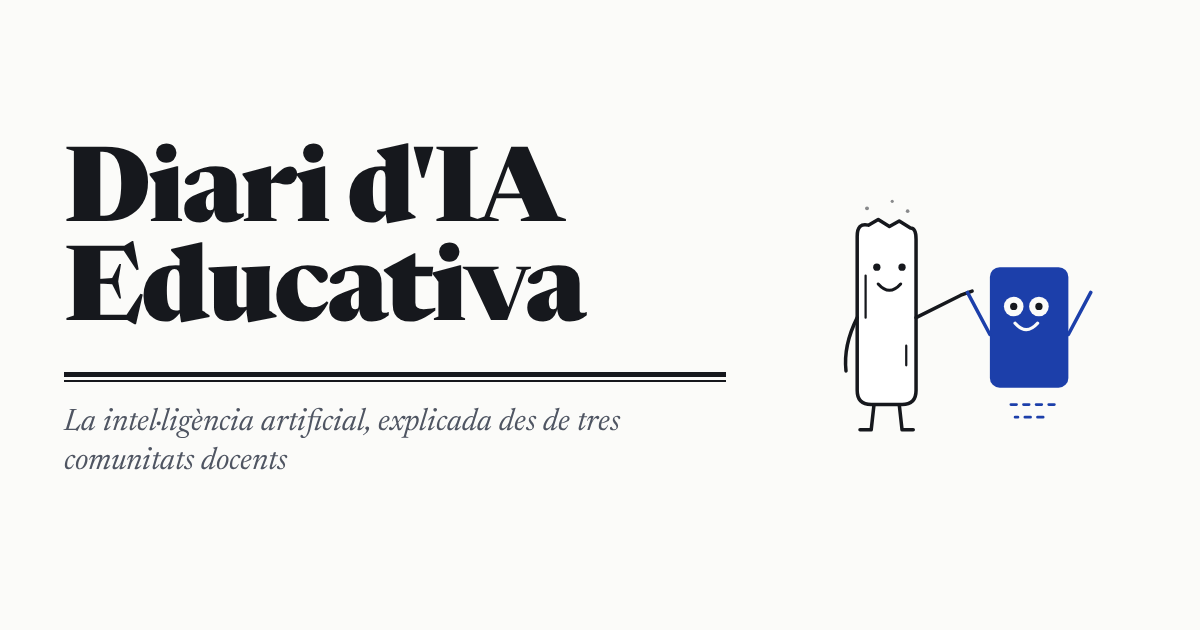
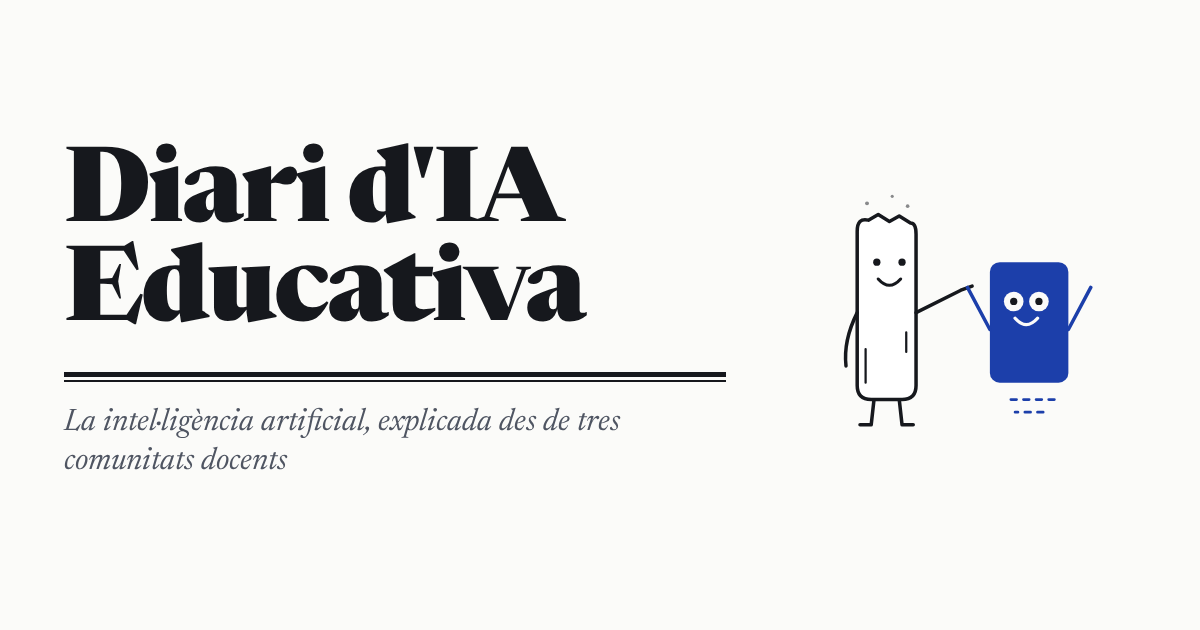
Imagen genérica de vista previa (og-es, og-ca): las vetas de Tiza, en el cuerpo y lejos de la cara, como en la viñeta desde el 07-11-2026

diff --git a/og/og-ca.html b/og/og-ca.html
@@ -5,4 +5,4 @@ h1{font-family:Newsreader;font-weight:800;font-size:104px;line-height:.95;letter
 p{font-family:Newsreader;font-style:italic;font-size:31px;color:#4f5562;margin:22px 0 0;line-height:1.25}
 .filete{height:10px;border-top:5px solid #16181d;border-bottom:2px solid #16181d;margin:26px 0 0;width:100%}
 .vineta svg{width:380px}</style></head>
-<body><div class="og"><div><h1>Diari d'IA Educativa</h1><div class="filete"></div><p>La intel·ligència artificial, explicada des de tres comunitats docents</p></div><div class="vineta"><svg viewBox="40 120 320 230" xmlns="http://www.w3.org/2000/svg"><g transform="translate(150 332) scale(1.18 1.18) translate(0 -332)"><path class="t" d="M-9 314 L-11 332 L-19 332 M9 314 L11 332 L19 332"/><path class="tz" d="M-21 304 L-21 194 Q-21 184 -13 186 L-6 182 L2 187 L9 183 L17 188 Q21 188 21 196 L21 304 Q21 314 11 314 L-11 314 Q-21 314 -21 304 Z"/><path class="t fino" d="M-15 222 L-15 252 M14 272 L14 286"/><circle class="ft polvo" cx="-14" cy="174" r="1.4"/><circle class="ft polvo" cx="4" cy="169" r="1.1"/><circle class="ft polvo" cx="15" cy="176" r="1.3"/><g transform="translate(2 216)"><circle class="fcara" cx="-9" cy="0" r="2.6"/><circle class="fcara" cx="9" cy="0" r="2.6"/><path class="cara" d="M-8 12 Q0 21 8 12"/></g><path class="t" d="M-21 252 Q-31 272 -29 290 M21 252 L53 236 M53 236 L61 233"/></g><g transform="translate(270 332) scale(-1.18 1.18) translate(0 -332)"><path class="a discontinuo" d="M-18 314 L18 314 M-10 323 L10 323"/><rect class="fz" x="-28" y="216" width="56" height="86" rx="7"/><g transform="translate(2 244)"><circle class="ojo" cx="-9" cy="0" r="7"/><circle class="ojo" cx="9" cy="0" r="7"/><circle class="fpupila" cx="-9" cy="0" r="2.6"/><circle class="fpupila" cx="9" cy="0" r="2.6"/><path class="sp" d="M-8 12 Q0 21 8 12"/></g><path class="a" d="M-28 264 L-44 234 M28 264 L44 234"/></g></svg></div></div></body></html>
+<body><div class="og"><div><h1>Diari d'IA Educativa</h1><div class="filete"></div><p>La intel·ligència artificial, explicada des de tres comunitats docents</p></div><div class="vineta"><svg viewBox="40 120 320 230" xmlns="http://www.w3.org/2000/svg"><g transform="translate(150 332) scale(1.18 1.18) translate(0 -332)"><path class="t" d="M-9 314 L-11 332 L-19 332 M9 314 L11 332 L19 332"/><path class="tz" d="M-21 304 L-21 194 Q-21 184 -13 186 L-6 182 L2 187 L9 183 L17 188 Q21 188 21 196 L21 304 Q21 314 11 314 L-11 314 Q-21 314 -21 304 Z"/><path class="cara" style="stroke-width:1.6" d="M-15 278 L-15 302 M14 266 L14 280"/><circle class="ft polvo" cx="-14" cy="174" r="1.4"/><circle class="ft polvo" cx="4" cy="169" r="1.1"/><circle class="ft polvo" cx="15" cy="176" r="1.3"/><g transform="translate(2 216)"><circle class="fcara" cx="-9" cy="0" r="2.6"/><circle class="fcara" cx="9" cy="0" r="2.6"/><path class="cara" d="M-8 12 Q0 21 8 12"/></g><path class="t" d="M-21 252 Q-31 272 -29 290 M21 252 L53 236 M53 236 L61 233"/></g><g transform="translate(270 332) scale(-1.18 1.18) translate(0 -332)"><path class="a discontinuo" d="M-18 314 L18 314 M-10 323 L10 323"/><rect class="fz" x="-28" y="216" width="56" height="86" rx="7"/><g transform="translate(2 244)"><circle class="ojo" cx="-9" cy="0" r="7"/><circle class="ojo" cx="9" cy="0" r="7"/><circle class="fpupila" cx="-9" cy="0" r="2.6"/><circle class="fpupila" cx="9" cy="0" r="2.6"/><path class="sp" d="M-8 12 Q0 21 8 12"/></g><path class="a" d="M-28 264 L-44 234 M28 264 L44 234"/></g></svg></div></div></body></html>

diff --git a/og/og-es.html b/og/og-es.html
@@ -5,4 +5,4 @@ h1{font-family:Newsreader;font-weight:800;font-size:104px;line-height:.95;letter
 p{font-family:Newsreader;font-style:italic;font-size:31px;color:#4f5562;margin:22px 0 0;line-height:1.25}
 .filete{height:10px;border-top:5px solid #16181d;border-bottom:2px solid #16181d;margin:26px 0 0;width:100%}
 .vineta svg{width:380px}</style></head>
-<body><div class="og"><div><h1>Diario de IA Educativa</h1><div class="filete"></div><p>La inteligencia artificial, contada desde tres comunidades docentes</p></div><div class="vineta"><svg viewBox="40 120 320 230" xmlns="http://www.w3.org/2000/svg"><g transform="translate(150 332) scale(1.18 1.18) translate(0 -332)"><path class="t" d="M-9 314 L-11 332 L-19 332 M9 314 L11 332 L19 332"/><path class="tz" d="M-21 304 L-21 194 Q-21 184 -13 186 L-6 182 L2 187 L9 183 L17 188 Q21 188 21 196 L21 304 Q21 314 11 314 L-11 314 Q-21 314 -21 304 Z"/><path class="t fino" d="M-15 222 L-15 252 M14 272 L14 286"/><circle class="ft polvo" cx="-14" cy="174" r="1.4"/><circle class="ft polvo" cx="4" cy="169" r="1.1"/><circle class="ft polvo" cx="15" cy="176" r="1.3"/><g transform="translate(2 216)"><circle class="fcara" cx="-9" cy="0" r="2.6"/><circle class="fcara" cx="9" cy="0" r="2.6"/><path class="cara" d="M-8 12 Q0 21 8 12"/></g><path class="t" d="M-21 252 Q-31 272 -29 290 M21 252 L53 236 M53 236 L61 233"/></g><g transform="translate(270 332) scale(-1.18 1.18) translate(0 -332)"><path class="a discontinuo" d="M-18 314 L18 314 M-10 323 L10 323"/><rect class="fz" x="-28" y="216" width="56" height="86" rx="7"/><g transform="translate(2 244)"><circle class="ojo" cx="-9" cy="0" r="7"/><circle class="ojo" cx="9" cy="0" r="7"/><circle class="fpupila" cx="-9" cy="0" r="2.6"/><circle class="fpupila" cx="9" cy="0" r="2.6"/><path class="sp" d="M-8 12 Q0 21 8 12"/></g><path class="a" d="M-28 264 L-44 234 M28 264 L44 234"/></g></svg></div></div></body></html>
+<body><div class="og"><div><h1>Diario de IA Educativa</h1><div class="filete"></div><p>La inteligencia artificial, contada desde tres comunidades docentes</p></div><div class="vineta"><svg viewBox="40 120 320 230" xmlns="http://www.w3.org/2000/svg"><g transform="translate(150 332) scale(1.18 1.18) translate(0 -332)"><path class="t" d="M-9 314 L-11 332 L-19 332 M9 314 L11 332 L19 332"/><path class="tz" d="M-21 304 L-21 194 Q-21 184 -13 186 L-6 182 L2 187 L9 183 L17 188 Q21 188 21 196 L21 304 Q21 314 11 314 L-11 314 Q-21 314 -21 304 Z"/><path class="cara" style="stroke-width:1.6" d="M-15 278 L-15 302 M14 266 L14 280"/><circle class="ft polvo" cx="-14" cy="174" r="1.4"/><circle class="ft polvo" cx="4" cy="169" r="1.1"/><circle class="ft polvo" cx="15" cy="176" r="1.3"/><g transform="translate(2 216)"><circle class="fcara" cx="-9" cy="0" r="2.6"/><circle class="fcara" cx="9" cy="0" r="2.6"/><path class="cara" d="M-8 12 Q0 21 8 12"/></g><path class="t" d="M-21 252 Q-31 272 -29 290 M21 252 L53 236 M53 236 L61 233"/></g><g transform="translate(270 332) scale(-1.18 1.18) translate(0 -332)"><path class="a discontinuo" d="M-18 314 L18 314 M-10 323 L10 323"/><rect class="fz" x="-28" y="216" width="56" height="86" rx="7"/><g transform="translate(2 244)"><circle class="ojo" cx="-9" cy="0" r="7"/><circle class="ojo" cx="9" cy="0" r="7"/><circle class="fpupila" cx="-9" cy="0" r="2.6"/><circle class="fpupila" cx="9" cy="0" r="2.6"/><path class="sp" d="M-8 12 Q0 21 8 12"/></g><path class="a" d="M-28 264 L-44 234 M28 264 L44 234"/></g></svg></div></div></body></html>
